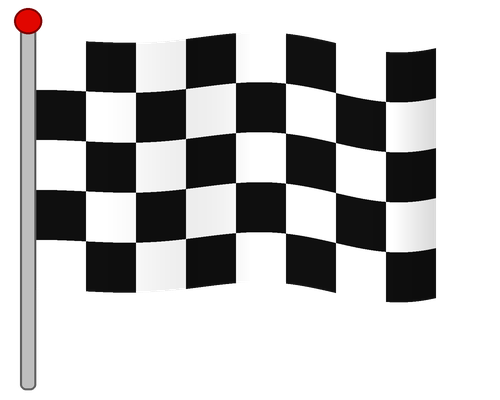
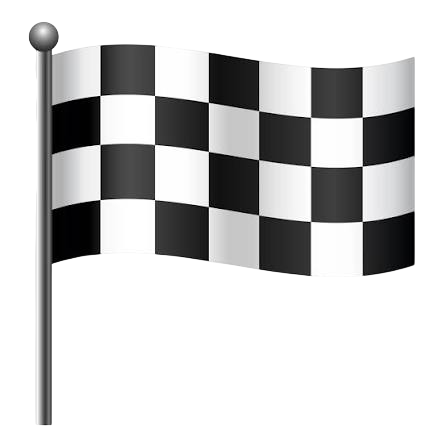
readme

diff --git a/index.html b/index.html
@@ -30,7 +30,7 @@
     <main>
         <!--UP-->
         <section class="up">
-            <img class="wheel" src="img/rueda.png" alt="">
+            <img class="wheel" src="img/goma-soft.png" alt="">
 
             <div class="up-content">
                 <img class="luces" src="img/luces-f1.png" alt="Starting lights">
@@ -69,7 +69,7 @@
 
             <p class="text">
                 My name is Hanny. I'm from Colombia, and I'm a student. I'm interested in sports,
-                art, especially music, design, design, architecture, and technology.
+                art, especially music, design, architecture, and technology.
                 I enjoy drawing, learning, exploring new places and admiring nature.
             </p>
 
@@ -170,7 +170,7 @@
                                 about the cars, teams and history of the
                                 sport. 
                                 I'm a tifosi fan and have been supporting
-                                Charles Leclerc oficially since 2024.
+                                Charles Leclerc officially since 2024.
                             </p>
                         </div>
 
@@ -355,7 +355,7 @@
                     This is the start of my personal website. I built the 
                     first version with HTML and CSS in Visual Studio Code 
                     as a practice project to learn how GitHub works. I
-                    choose a racing theme because Formula 1 is one of my
+                    chose a racing theme because Formula 1 is one of my
                     biggest passions, and I wanted the page to feel like 
                     my own garage.
                 </p>
@@ -375,7 +375,7 @@
                     The photos in the "Things I love" section were not
                     showing up. The problem was that the information 
                     opened inside a very small column, so the image got
-                    squeexed. I fixed it by making each block open in a
+                    squeezed. I fixed it by making each block open in a
                     full row, with the image on the left and the text on 
                     the right. I also made it so only one block stays 
                     open at a time.
@@ -393,7 +393,7 @@
 
                 <p>
                     I uploaded my website to GitHub and published it
-                    with GitHub Pages. When i tried to sync, Git showed
+                    with GitHub Pages. When I tried to sync, Git showed
                     a "cannot lock ref" error, but my changes were still
                     saved on my PC, so I could push them again.
                 </p>

diff --git a/style.css b/style.css
@@ -13,6 +13,7 @@ html {
 
 body {
     font-family: Arial, Helvetica, sans-serif;
+    overflow-x: hidden;
     background: #0b0b0b;
     color: #f5f5f5;
 }
@@ -71,7 +72,7 @@ nav {
    HERO
 ========================= */
 
-.hero {
+.up {
     min-height: 100vh;
 
     position: relative;
@@ -80,7 +81,7 @@ nav {
     display: flex;
     align-items: center;
 
-    padding: 120px 8%;
+    padding: 140px 8% 80px;
 
     background:
         linear-gradient(
@@ -90,21 +91,21 @@ nav {
     );
 }
 
-.hero-content {
+.up-content {
     max-width: 900px;
     position: relative;
     z-index: 1;
 }
 
-.eyebrow {
+.overline {
     color: #e10600;
 
     font-size: 14px;
     letter-spacing: 4px;
 }
 
-.hero h1 {
-    font-size: clamp(60px, 10vw, 150px);
+.up h1 {
+    font-size: clamp(48px, 7vw, 100px);
     line-height: 0.85;
     margin: 25px 0;
     letter-spacing: -5px;
@@ -356,6 +357,7 @@ to {
 .blog-post {
     max-width: 700px;
     padding: 30px;
+    margin-bottom: 20px;
     border-left: 3px solid #e10600;
     background: #111;
 }
@@ -398,22 +400,23 @@ footer {
 html { scroll-padding-top: 70px; }
 
 .luces { display: block; 
-    width: 300px; 
+    width: 200px; 
     margin-bottom: 30px;
 }
 
 .wheel {
     position: absolute;
-    right: -8%;
-    top: 50%;
-    width: min(48vw, 560px);
+    right: -10%;
+    top: calc(50% + 35px);
+    width: min(48vw, 600px);
     transform: translateY(-50%);
     opacity: 0.35;
 }
 
 .checkered {
     height: 32px;
-    background: url(img/cuadros.png) repeat-x;
+    background: url(img/cuadros.jpeg) repeat-x;
+    background-size: 32px 32px;
 }
 
 .bandera { height: 70px; }

diff --git a/readme.md b/readme.md
@@ -1,14 +1,37 @@
-# Personal Site
-It's a personal site built with HTML and CSS, made as a practice project.
-It has an F1 racing theme because that's one of my biggest passions.
+# Hanny's Garage
+A personal website with a Formula 1 theme: about me, my projects, the things
+I love, a small blog and the songs playing in my garage.
 
-# Sections
-- About Me - a bit who I am
-- The Garage - some of my projects (AutoCAD, music, design)
-- RAcing Line - things I love, each one expands to show more
-- Lag Log - a small blog where I log my progress building this site
-- Garage Radio - a few songs I like, shown as F1 tyre compounds.
+![](screenshot.png)
 
-# Built with
-- HTML
-- CSS
+**Visit the site** [Open Hanny's Garage](https://hannyd9.github.io/Personal-Blog/)
+
+## Quick Start
+Open the link above. No install needed.
+
+## Features
+- F1 starting lights and a tyre in the hero section.
+- Checkered flag strips between sections.
+- "Things I love" cards that open to show a photo and text (only one open at a time)
+- A blog called Lap Log with my progress updates.
+- Garage Radio: songs shown with Formula 1 tyre compounds (soft, medium, hard, intermediate, wet)
+- Responsive layout for phones and small screens.
+
+## Run it locally
+Requirements: a browser and VS Code with the Live Server extension (optional).
+
+```
+git clone https://github.com/hannyd9/Personal-Blog/
+cd Personal-Blog
+```
+
+Open `index.html` in your browser, or right-click it in VS Code and choose **Open with Live Server**.
+
+## How it works
+The site uses only HTML and CSS, with no JavaScript. The "Things I love" cards use the `<details>` and `<summary>` elements, so they open and close without any script, and the `name` attribute makes sure only one stays open at a time. The checkered strips are one small image repeated with `background-repeat`.
+
+I built it as a practice project to learn how GitHub and GitHub Pages work.
+
+## Built with
+- HTML and CSS in Visual Studio Code
+- Images: from Google, Pinterest and Pirelli
